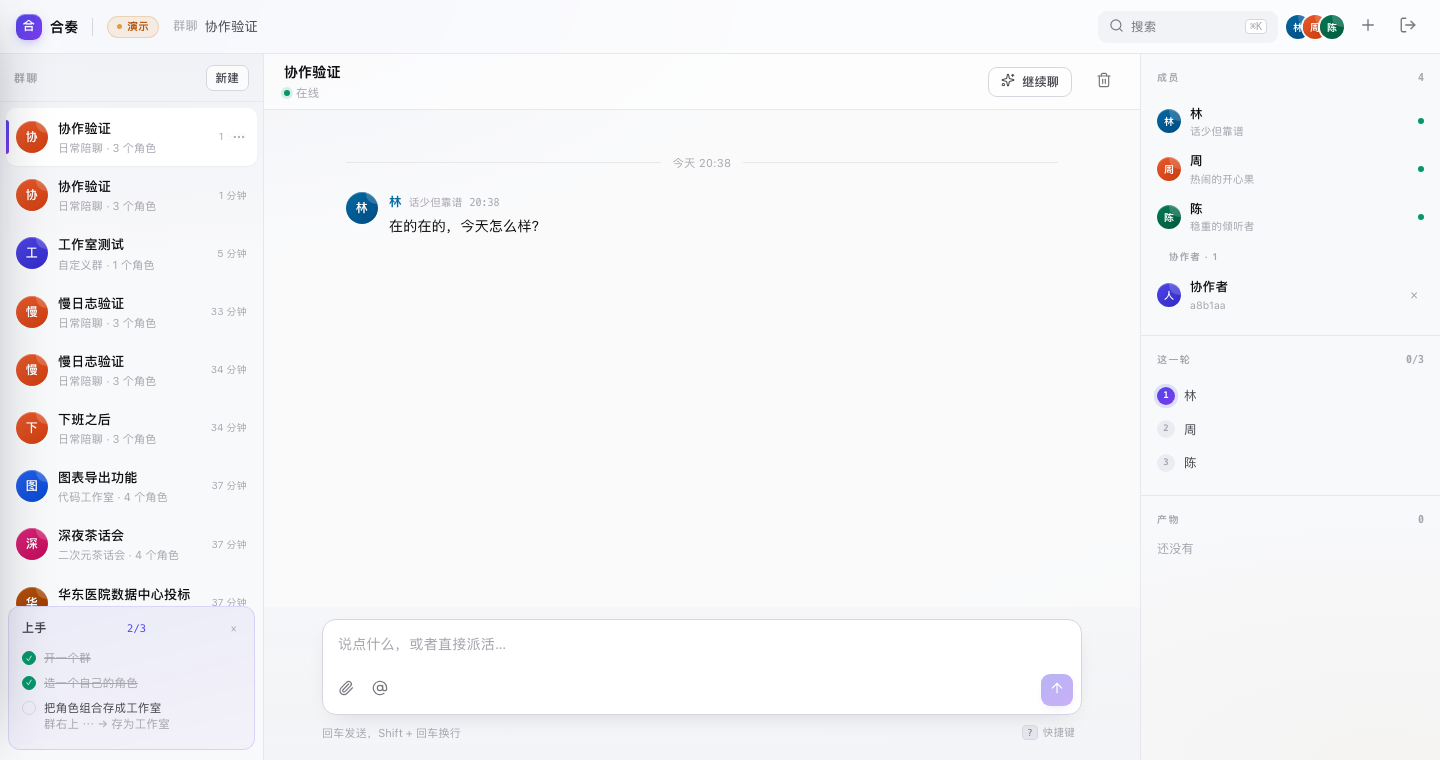
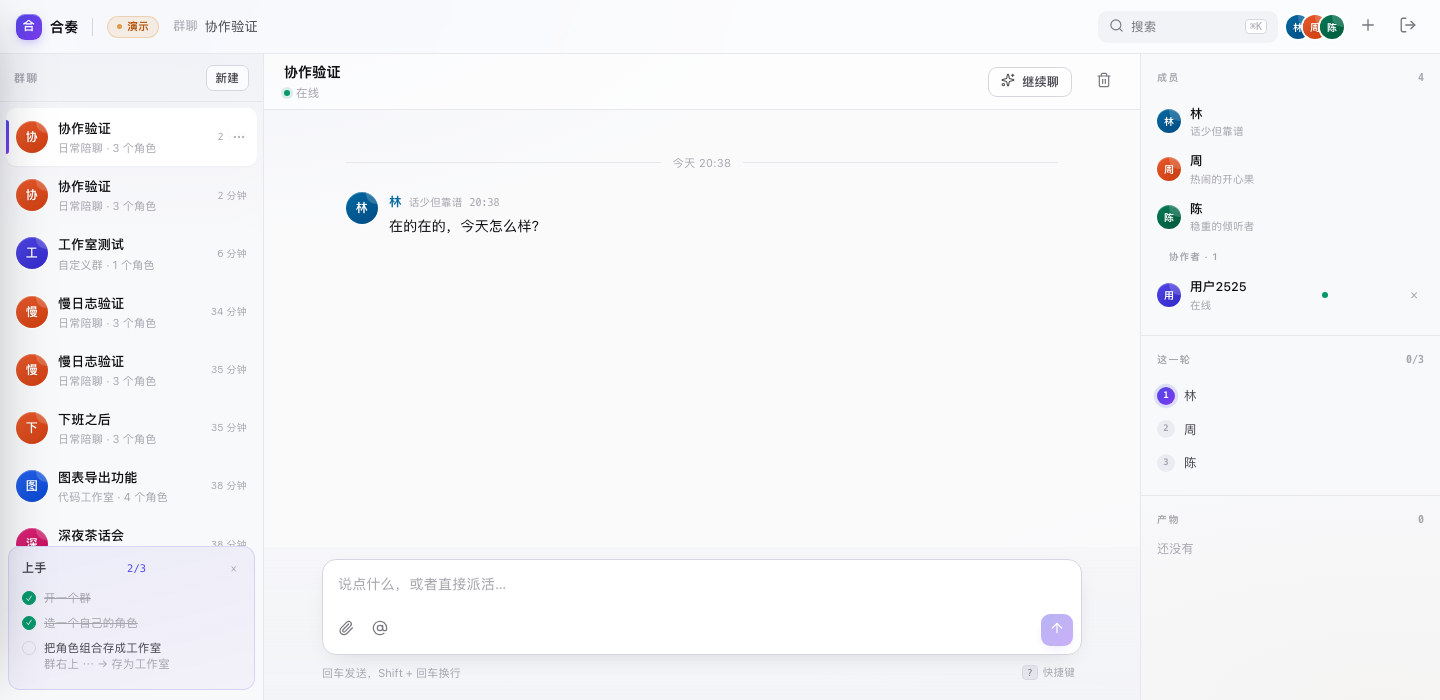
协作者显示真名与真实在线状态
两个问题：

1. 成员面板写着「协作者 a8b1aa」——渲染的是 uid 末六位。
   后端 /collaborators 其实一直返回 name，前端没用。
   现在改走这个接口，显示真实姓名。

2. 在线绿点是写死的 <span class="st">，零数据支撑。
   角色行直接去掉（它们本来就一直在），协作者行改成真实判断：
   lastSeen 在 5 分钟内才算在线，离线显示灰点。

假数据比没有数据更糟——用户会以为对方真的在电脑前。

测试：协作者列表必须带 name 和 online 字段。

diff --git a/web/app/js/chat.js b/web/app/js/chat.js
@@ -85,6 +85,13 @@ export async function openConv(id) {
     ? conv.agents
     : (sc.agents || []);
 
+  // 协作者的真实姓名和在线状态（renderMembers 要用）
+  try {
+    state.people = await api('/v1/conversations/' + conv.id + '/collaborators');
+  } catch (e) {
+    state.people = [];
+  }
+
   renderConvs();
   if (drawer.classList.contains('on')) closeDrawer();
   $('#chatEmpty').style.display = 'none';
@@ -296,26 +303,28 @@ export function renderMembers() {
         <div class="mn">${esc(a.name)}</div>
         <div class="mt">${esc(a.title)}</div>
       </div>
-      <span class="st"></span>
     </div>`).join('');
 
-  // 协作者：后端一直支持，之前界面上没有入口
-  const collabs = (conv && conv.collaborators) || [];
-  const collabRows = collabs.map(uid => `
-    <div class="member" data-collab="${uid}">
-      ${makeAv('人', '#4F46E5', 'av-sm')}
+  // 协作者：用 /collaborators 返回的真实姓名和在线状态。
+  // 之前显示 uid 末六位（谁也不知道那是谁），绿点也是写死的。
+  const people = state.people || [];
+  const others = people.filter(p => p.role === 'member');
+  const collabRows = others.map(p => `
+    <div class="member">
+      ${makeAv(p.name || '人', '#4F46E5', 'av-sm')}
       <div>
-        <div class="mn">协作者</div>
-        <div class="mt mono">${esc(uid.slice(-6))}</div>
+        <div class="mn">${esc(p.name || p.id.slice(-6))}</div>
+        <div class="mt">${p.online ? '在线' : '离线'}</div>
       </div>
-      ${iAmOwner ? `<button class="collab-x" data-rm="${uid}" title="移除协作者">×</button>` : ''}
+      ${p.online ? '<span class="st"></span>' : '<span class="st off"></span>'}
+      ${iAmOwner ? `<button class="collab-x" data-rm="${p.id}" title="移除协作者">×</button>` : ''}
     </div>`).join('');
 
   box.innerHTML = agentRows + (collabRows
-    ? `<div class="member-sep">协作者 · ${collabs.length}</div>${collabRows}`
+    ? `<div class="member-sep">协作者 · ${others.length}</div>${collabRows}`
     : '');
 
-  $('#memberCount').textContent = state.agents.length + collabs.length;
+  $('#memberCount').textContent = state.agents.length + others.length;
   $('#topAvatars').innerHTML = state.agents.slice(0, 5)
     .map(a => makeAv(a.name, a.color, 'av-sm')).join('');
 

diff --git a/web/app/app.css b/web/app/app.css
@@ -433,7 +433,8 @@ a{color:inherit;text-decoration:none}
 .member{display:flex;align-items:center;gap:9px;padding:6px 0}
 .member .mn{font-size:12.5px;font-weight:500}
 .member .mt{font-size:10.5px;color:var(--tx-4)}
-.member .st{margin-left:auto;width:6px;height:6px;border-radius:99px;background:var(--ok)}
+.member .st{margin-left:auto;width:6px;height:6px;border-radius:99px;background:var(--ok);flex:0 0 6px}
+.member .st.off{background:var(--line-2)}
 .pipe-step{display:flex;align-items:center;gap:9px;padding:7px 0;font-size:12.5px;color:var(--tx-2)}
 .pipe-step .n{
   width:18px;height:18px;border-radius:50%;display:grid;place-items:center;

diff --git a/web/app/js/core.js b/web/app/js/core.js
@@ -22,6 +22,7 @@ export const state = {
   convs: [],
   cur: null,
   agents: [],
+  people: [],        // 群成员（含协作者的真实姓名与在线状态）
   busy: false,
   pick: null,
   oldestID: null,

diff --git a/internal/httpapi/handler_collab.go b/internal/httpapi/handler_collab.go
@@ -4,6 +4,7 @@ import (
 	"errors"
 	"net/http"
 	"strings"
+	"time"
 
 	"github.com/UltimateJob/ensemble-backend/internal/domain"
 	"github.com/UltimateJob/ensemble-backend/internal/service"
@@ -93,17 +94,25 @@ func (s *Server) handleListCollaborators(w http.ResponseWriter, r *http.Request)
 		notFound(w, "会话不存在")
 		return
 	}
-	people := make([]map[string]string, 0, len(conv.Collaborators)+1)
-	if owner, ok := s.store.GetUser(conv.UserID); ok {
-		people = append(people, map[string]string{
-			"id": owner.ID, "name": owner.Name, "role": "owner",
+	// online 是真实判断：5 分钟内有请求才算在线。
+	// 之前界面上的绿点是写死的，等于骗人。
+	const onlineWindow = 5 * time.Minute
+
+	people := make([]map[string]interface{}, 0, len(conv.Collaborators)+1)
+	add := func(usr *domain.User, role string) {
+		people = append(people, map[string]interface{}{
+			"id":     usr.ID,
+			"name":   usr.Name,
+			"role":   role,
+			"online": time.Since(usr.LastSeen) < onlineWindow,
 		})
+	}
+	if owner, ok := s.store.GetUser(conv.UserID); ok {
+		add(owner, "owner")
 	}
 	for _, id := range conv.Collaborators {
 		if usr, ok := s.store.GetUser(id); ok {
-			people = append(people, map[string]string{
-				"id": usr.ID, "name": usr.Name, "role": "member",
-			})
+			add(usr, "member")
 		}
 	}
 	ok(w, people)

diff --git a/internal/httpapi/api_test.go b/internal/httpapi/api_test.go
@@ -670,3 +670,36 @@ func TestAdminOps(t *testing.T) {
 		t.Fatalf("无令牌应 401，得到 %d", rec.Code)
 	}
 }
+
+// 协作者列表要返回真实姓名和真实在线状态
+func TestCollaboratorsShowRealNames(t *testing.T) {
+	_, h := newTestServer(t)
+	owner := login(t, h, "13800000000")
+
+	_, out := doJSON(t, h, "POST", "/v1/conversations", owner, map[string]interface{}{
+		"title": "协作", "studio": "companion",
+	})
+	convID := out["data"].(map[string]interface{})["id"].(string)
+
+	// 加一个协作者
+	rec, _ := doJSON(t, h, "POST", "/v1/conversations/"+convID+"/collaborators", owner,
+		map[string]interface{}{"target": "13800000000"})
+	if rec.Code != 200 && rec.Code != 201 {
+		t.Fatalf("加协作者失败：%d", rec.Code)
+	}
+
+	_, out = doJSON(t, h, "GET", "/v1/conversations/"+convID+"/collaborators", owner, nil)
+	people := out["data"].([]interface{})
+	if len(people) == 0 {
+		t.Fatal("协作者列表不应为空")
+	}
+	for _, raw := range people {
+		p := raw.(map[string]interface{})
+		if p["name"] == "" || p["name"] == nil {
+			t.Fatalf("协作者应带真实姓名，得到 %v", p)
+		}
+		if _, ok := p["online"]; !ok {
+			t.Fatal("协作者应带 online 字段——界面上的绿点不能是写死的")
+		}
+	}
+}

diff --git a/README.md b/README.md
@@ -224,7 +224,9 @@ type Provider interface {
 
 ![协作者](docs/collaborators.png)
 
-成员面板分两段：角色在上，协作者在下（带一个 × 可以移除）。
+成员面板分两段：角色在上，协作者在下（带一个 × 可以移除）。协作者显示**真实姓名**和**真实在线状态**（5 分钟内有请求才算在线）。
+
+之前显示的是 uid 末六位，比如「协作者 a8b1aa」——没人知道那是谁。而且绿点是写死的 `<span class="st">`，没有任何数据支撑。**假的在线指示比没有更糟**，用户会以为对方真的在电脑前。
 
 菜单按身份给不同的选项：
 
